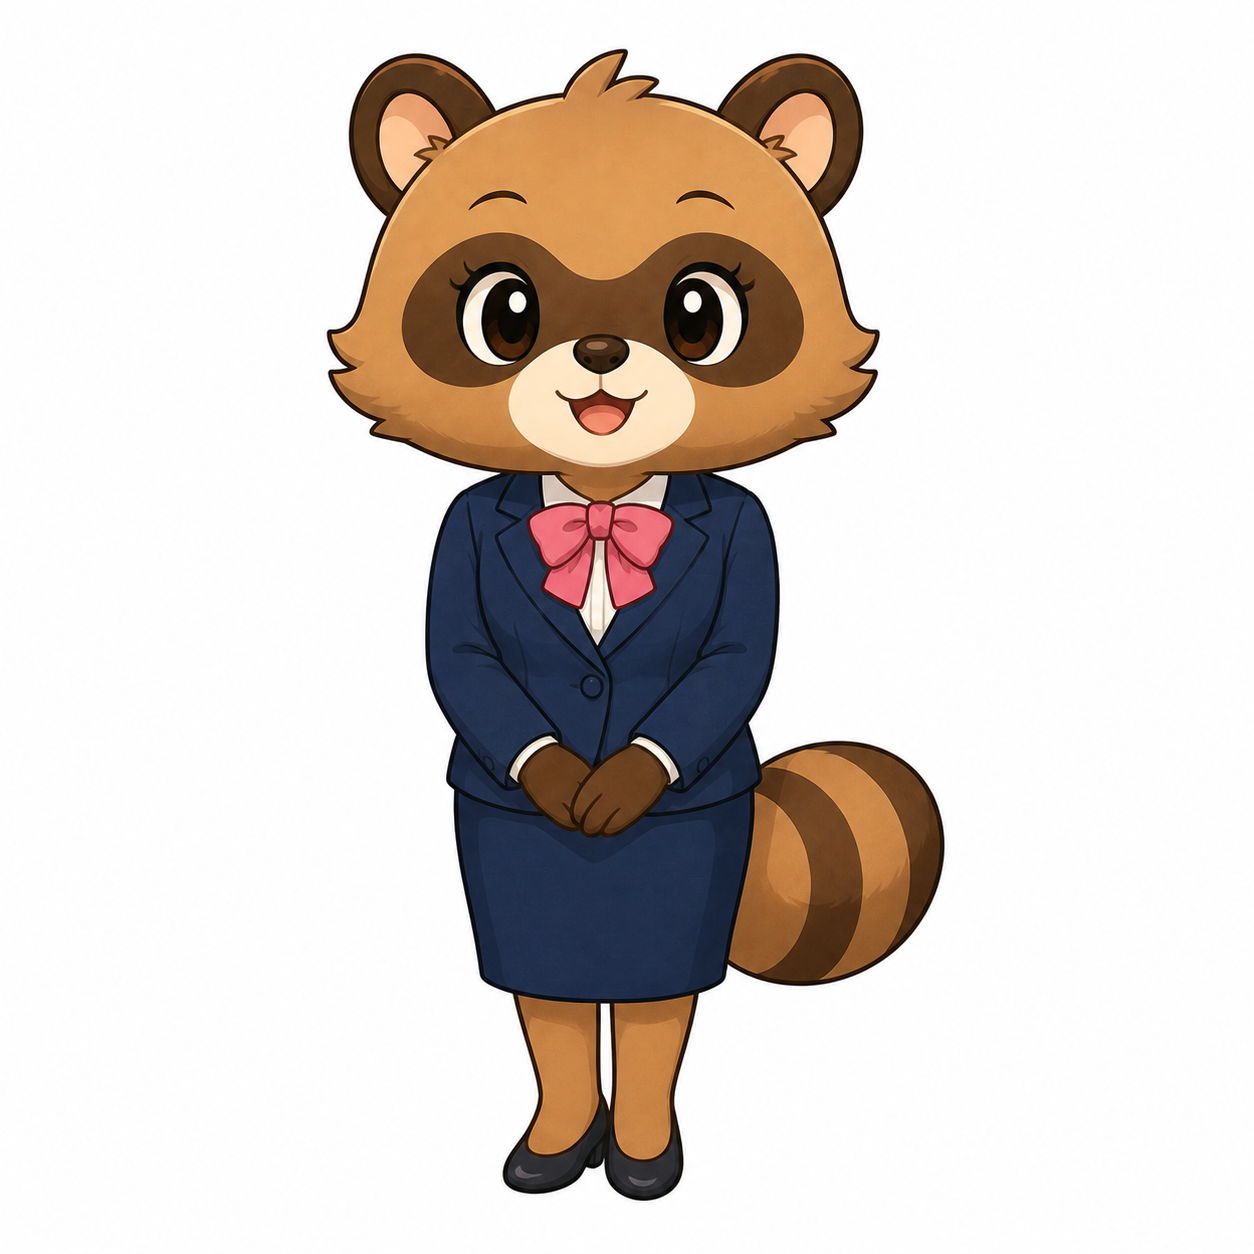
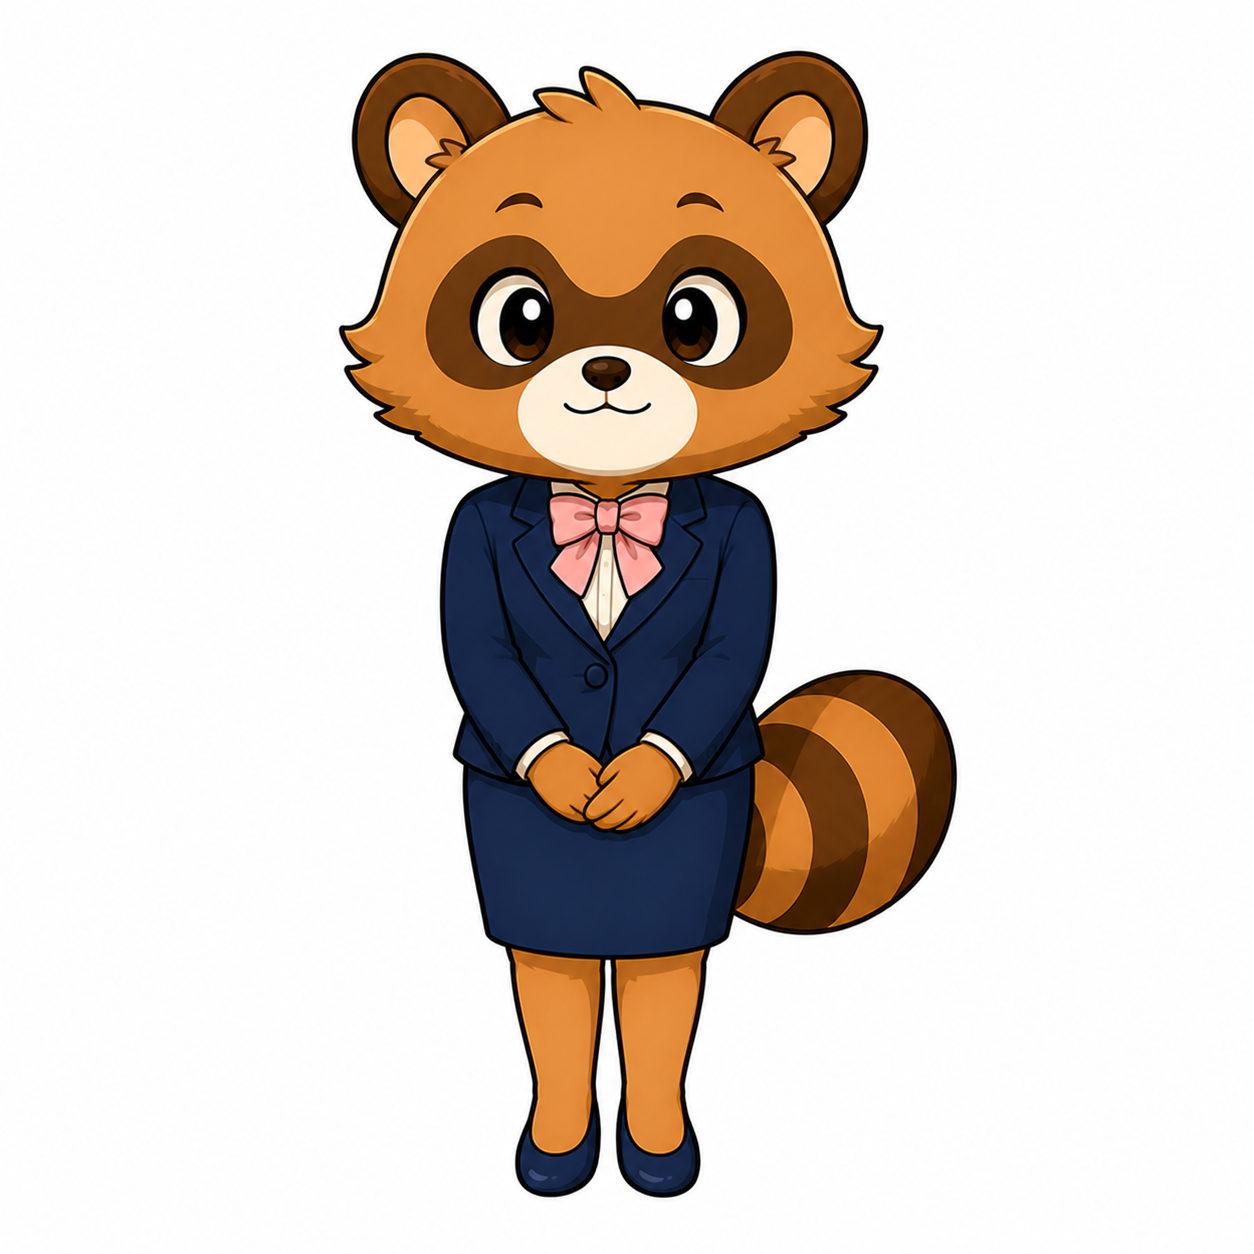
画像・ダイアログ調整

Changed region(s): [[0.2488, 0.0311, 0.7775, 0.9641]]

diff --git a/src/presentations/Dialogs.ts b/src/presentations/Dialogs.ts
@@ -36,7 +36,7 @@ export const dialogs: Ref<Dialog[]> = computed(() => {
     // 初回のみ
     if (store.state.gameState.year === 1 && store.state.gameState.month === 4) {
       dialogs.push({
-        image: null,
+        image: "chara00-joyful",
         message: store.state.gameState.playerName + "社長、よろしくお願いします！"
       });
     }
@@ -87,44 +87,79 @@ export const dialogs: Ref<Dialog[]> = computed(() => {
         store.state.gameState.events.forEach((event) => {
           if (event.event_type === "rival_price_down") {
             dialogs.push({
-              image: null,
+              image: "chara00-surprised",
               message: "カチカチ工業が商品の値段を " + event.rival_price_down_amount + "ドングリ 下げたようです。"
+            });
+            dialogs.push({
+              image: "chara00-surprised",
+              message: "我が社も販売価格を見直さなければいけないかもしれません。"
             });
           } else if (event.event_type === "rival_price_up") {
             dialogs.push({
-              image: null,
+              image: "chara00-surprised",
               message: "カチカチ工業が商品の値段を " + event.rival_price_up_amount + "ドングリ 上げたようです。"
+            });
+            dialogs.push({
+              image: "chara00-surprised",
+              message: "商品を売るチャンスです！"
             });
           } else if (event.event_type === "rival_new_product") {
             dialogs.push({
-              image: null,
+              image: "chara00-surprised",
               message: "カチカチ工業が新商品を発売したようです。"
+            });
+            dialogs.push({
+              image: "chara00-surprised",
+              message: "我が社も商品や、販売価格を見直さなければいけないかもしれません。"
             });
           } else if (event.event_type === "material_price_up") {
             dialogs.push({
-              image: null,
+              image: "chara00-sad",
               message: "材料の仕入れ価格が上がりました。"
             });
+            if (store.state.gameState.material_price > 12) {
+              dialogs.push({
+                image: "chara00-sad",
+                message: "まとめ買いして、材料費を安く抑えたいですね。"
+              });
+            }
           } else if (event.event_type === "material_price_down") {
             dialogs.push({
-              image: null,
+              image: "chara00-joyful",
               message: "材料の仕入れ価格が下がりました。"
             });
+            if (store.state.gameState.material_price < 11) {
+              dialogs.push({
+                image: "chara00-joyful",
+                message: "材料を安く仕入れるチャンスです！"
+              });
+            }
           } else if (event.event_type === "product_stolen") {
             dialogs.push({
-              image: null,
-              message: `商品倉庫にどろぼうが入ったようです。商品を${event.product_stolen_amount}個盗まれたようです。`
+              image: "chara00-sad",
+              message: "商品倉庫にどろぼうが入ったようです。"
+            });
+            dialogs.push({
+              image: "chara00-sad",
+              message: `商品を${event.product_stolen_amount}個盗まれてしまいました。`
             });
           } else if (event.event_type === "material_burned") {
             dialogs.push({
-              image: null,
-              message: `材料倉庫で火事が起こりました。材料が${event.material_burned_amount}個燃えてしまいました。`
+              image: "chara00-sad",
+              message: "材料倉庫で火事が起こりました。"
+            });
+            dialogs.push({
+              image: "chara00-sad",
+              message: `材料が${event.material_burned_amount}個燃えてしまいました。`
             });
           } else if (event.event_type === "social_media_buzzed") {
             dialogs.push({
-              image: null,
-              message:
-                "SNSで我が社の商品が話題になっているようです。知名度が上がりました。たくさん販売するチャンスです！"
+              image: "chara00-joyful",
+              message: "SNSで我が社の商品が話題になっているようです！"
+            });
+            dialogs.push({
+              image: "chara00-joyful",
+              message: "知名度が上がりました。商品をたくさん販売するチャンスです！"
             });
           }
         });

diff --git a/src/logics/fireEvents.ts b/src/logics/fireEvents.ts
@@ -151,7 +151,7 @@ const fireEvents = () => {
   // ランダムイベント抽選
   const draw = random_int(0, lottery.length - 1);
   const createEvent = lottery[draw];
-  console.log("event", createEvent);
+
   if (typeof createEvent === "function") {
     const event = createEvent();
     if (event) {

diff --git a/src/logics/sale.ts b/src/logics/sale.ts
@@ -11,7 +11,6 @@ const sale = (staff: Staff, sale_unit_price: number) => {
   const rival_effective_price = store.state.gameState.rival_price - store.state.gameState.rival_strength * 3;
   // 価格差（価格有利であればプラス）
   let price_advantage = rival_effective_price - effective_price;
-  console.log(effective_price, rival_effective_price, price_advantage);
 
   // 最大販売可能数（能力と知名度に比例）
   let salable_count = shake(3 + staff.sale_skill * 3 + store.state.gameState.popularity * 3, 25);